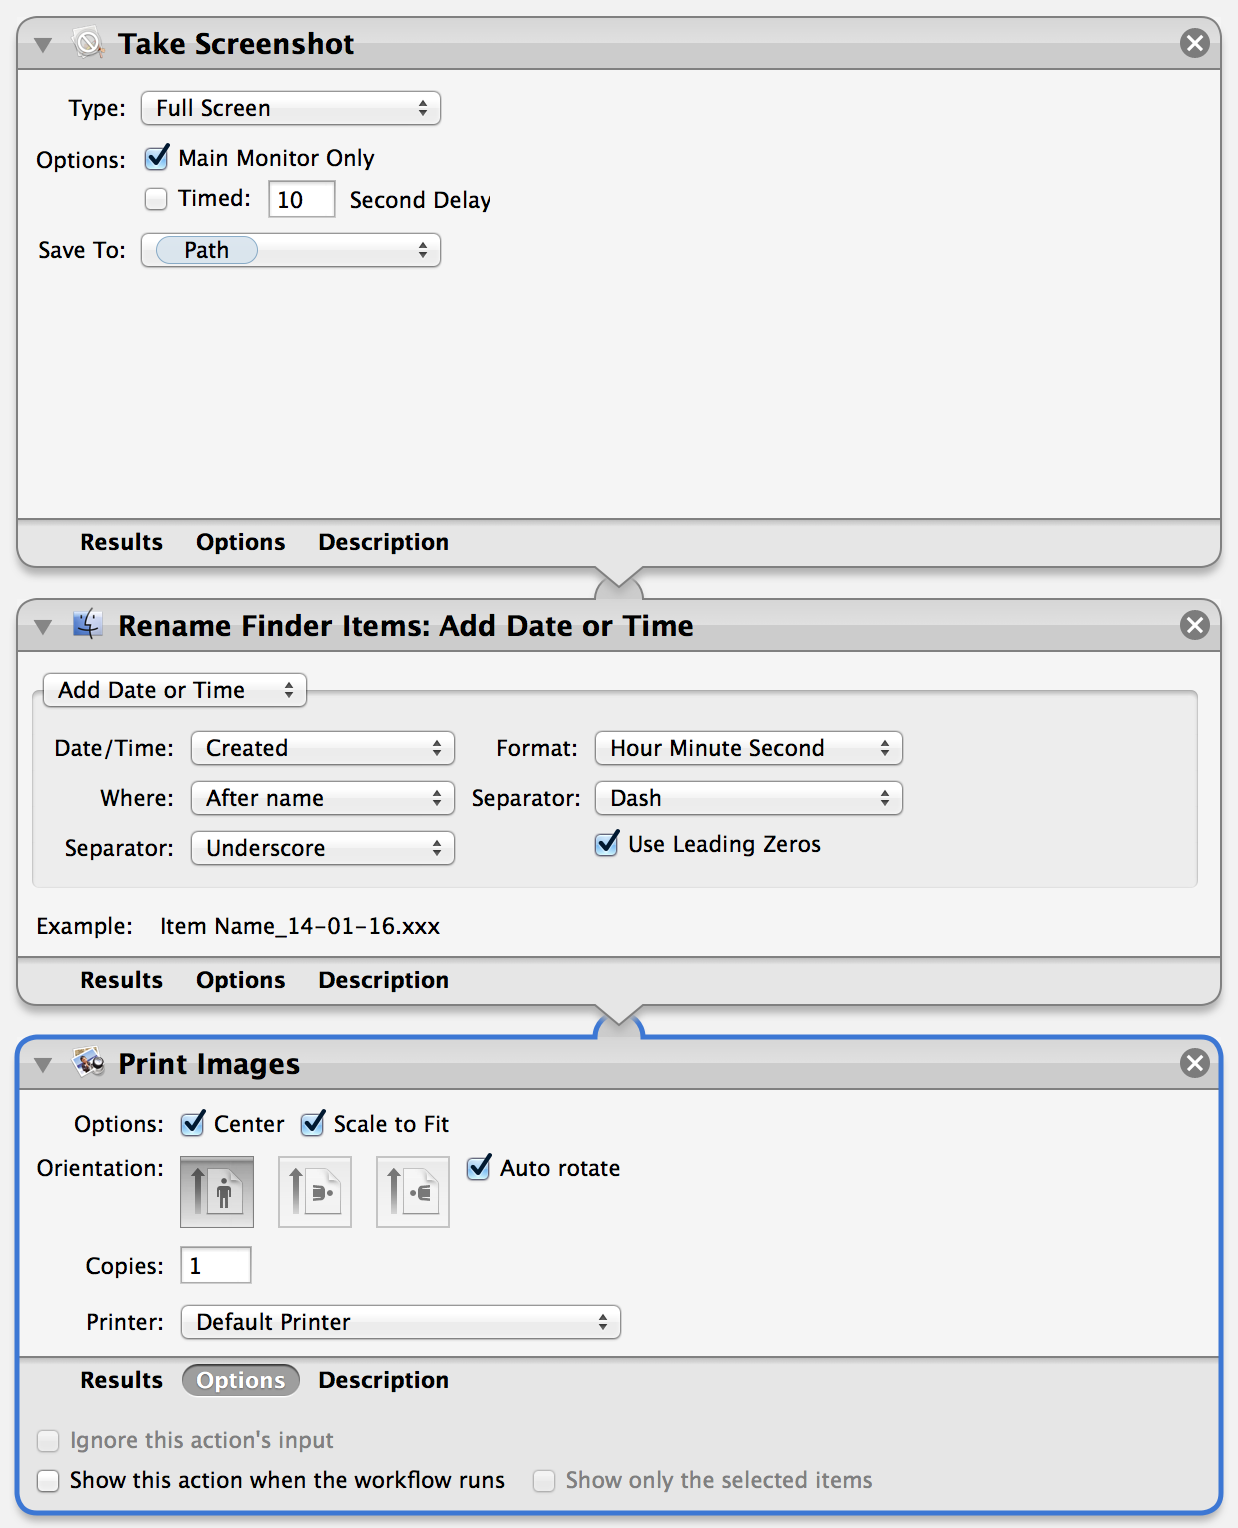
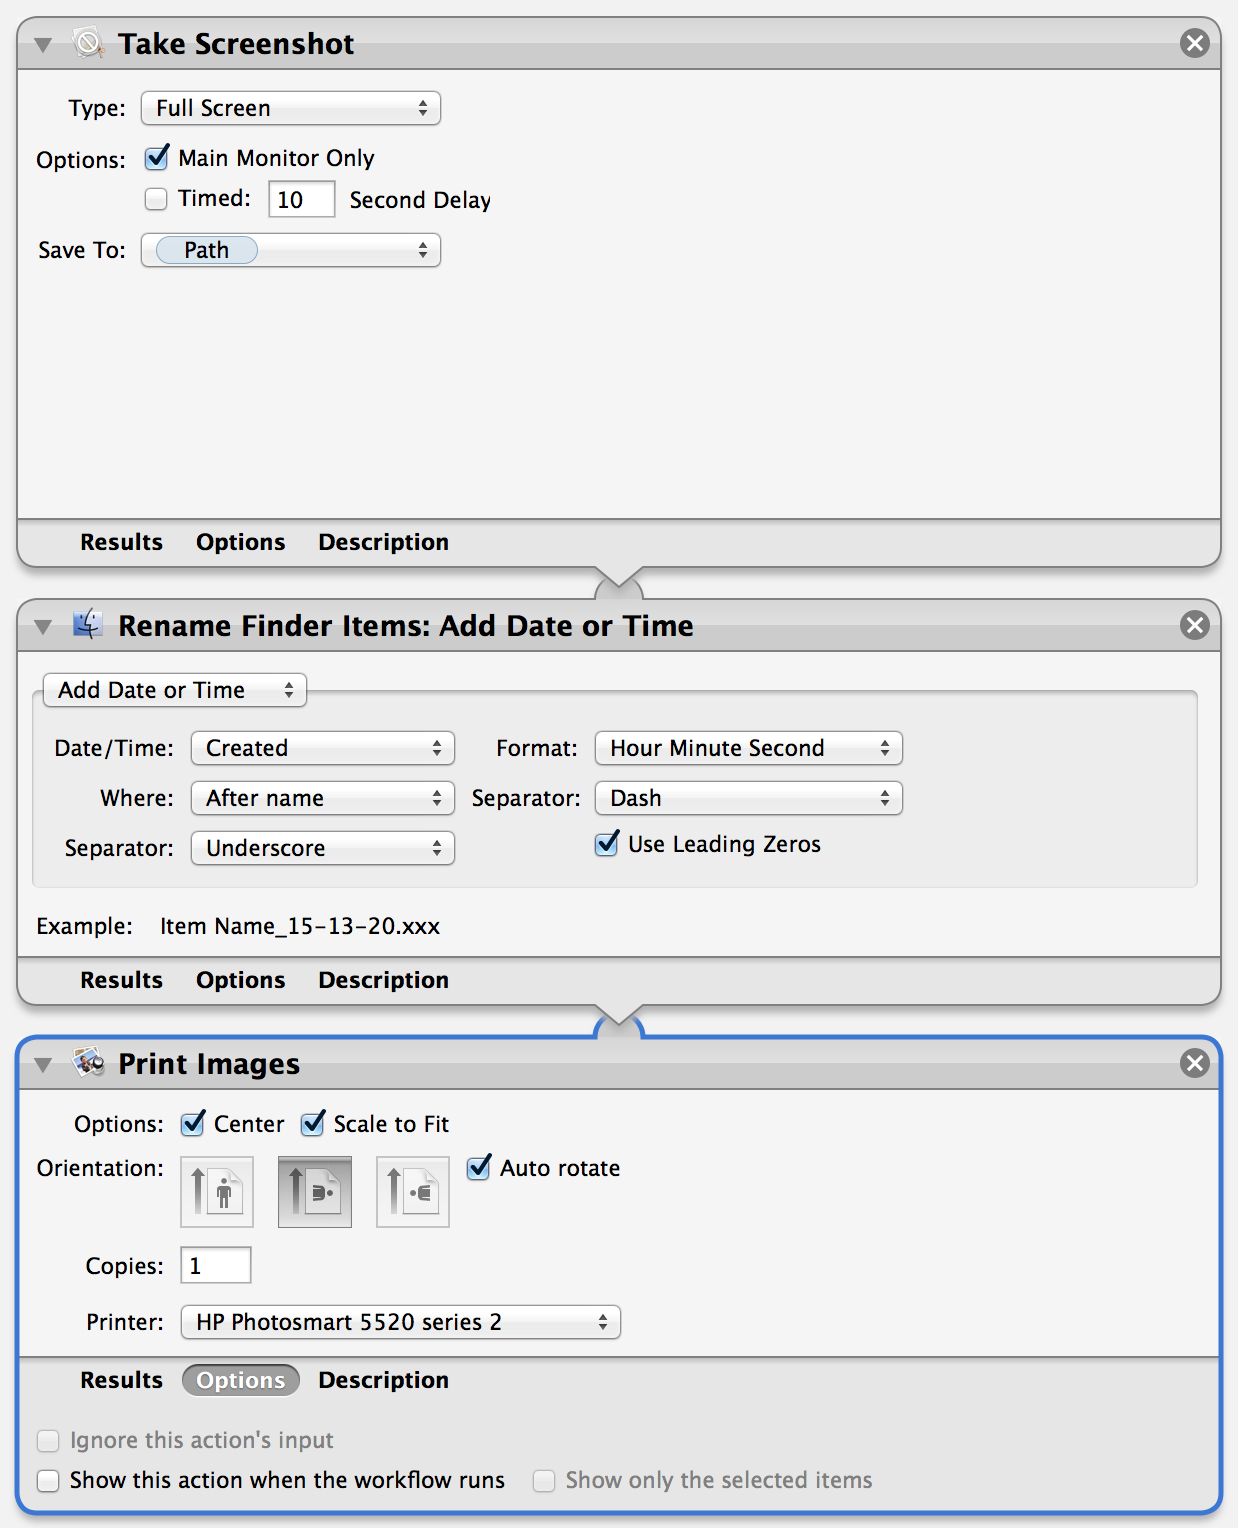
[Fix] Print through LPR CUPS

Changed region(s): [[0.1228, 0.7382, 0.3069, 0.7997], [0.1535, 0.8613, 0.399, 0.892], [0.2456, 0.5844, 0.3069, 0.6152]]

diff --git a/server.js b/server.js
@@ -2,7 +2,7 @@
 var config = {
     screenDir: '/screenshots/screenshots/' // the nested directory hackfixes a bug/feature(?) in automator where the file is placed outside the actual dir
   , cwd: __dirname
-  , workflowFile: 'print_screenshot.workflow'
+  , workflowFile: 'print_screenshot_lpr.workflow'
   , port: process.env.PORT || 8000
 };
 
